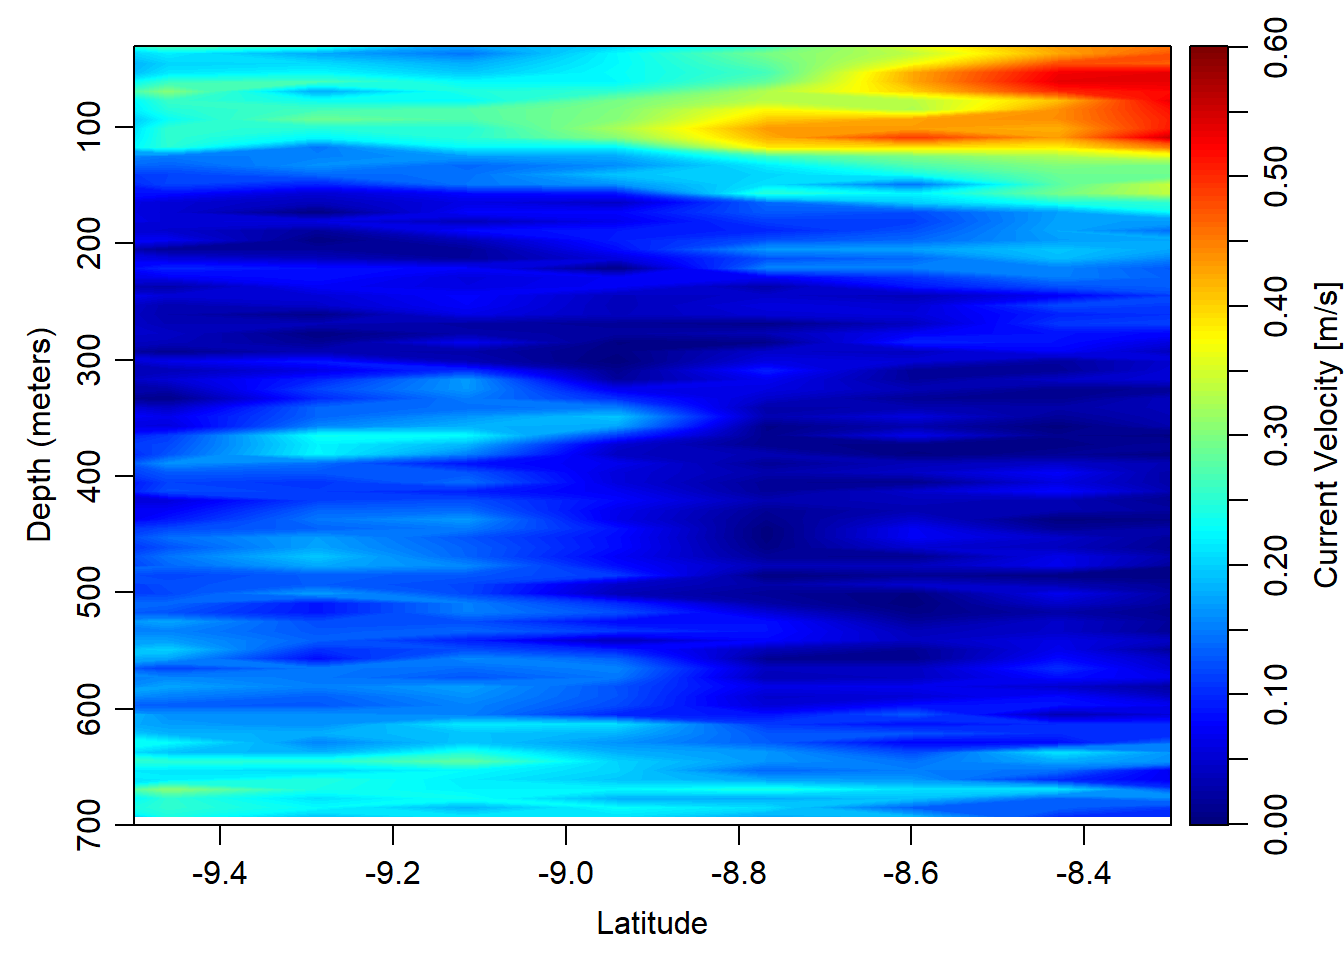
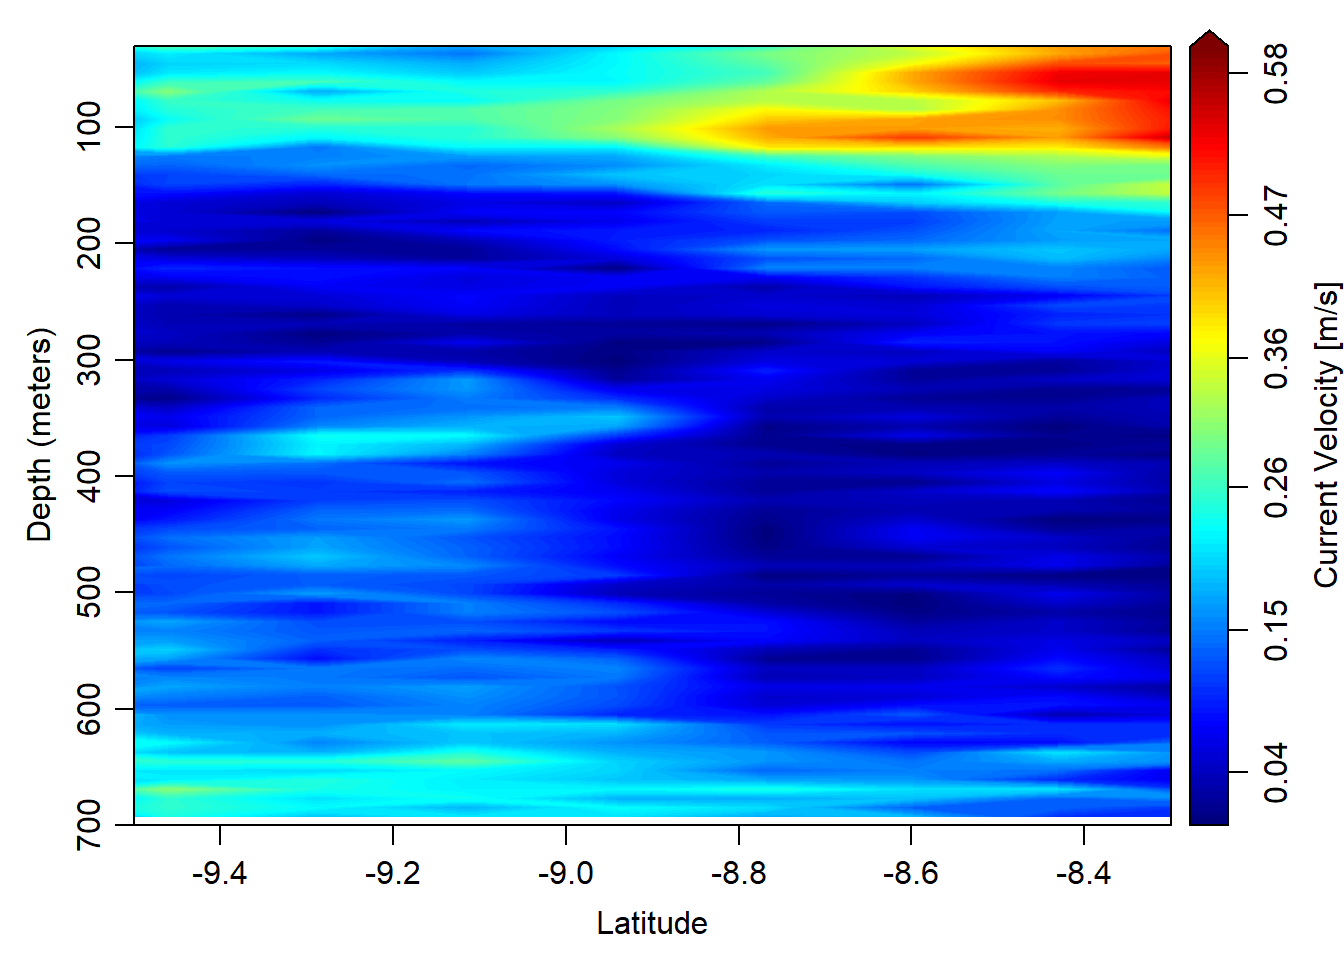
update post

diff --git a/public/10/15/2018/processing-adcp-data-with-r/index.html b/public/10/15/2018/processing-adcp-data-with-r/index.html
@@ -65,7 +65,7 @@
 
   <article class="article">
     
-    <span class="article-duration">6 min read</span>
+    <span class="article-duration">7 min read</span>
     
 
     <h1 class="article-title">Processing ADCP Data with R</h1>
@@ -253,6 +253,15 @@ ship.vel = kilwa.adcp[[&quot;avgSpeed&quot;]]
 ## obtain absolute velocity
 vel.abs = abs(vel-ship.vel)</code></pre>
 <p>After correction, the absolute currrent velocity ranged from 1.493310^{-4} ms<sup>-1</sup> to 4.647 ms<sup>-1</sup> with the median of 0.1234 ms<sup>-1</sup>. We see current speed decrease with depth where the surface water has a relatively higher current speed than the deep water (figure <a href="#fig:fig9">9</a>). It also clear the surface current velocity increase from Lindi to around latitude 9 <sup>o</sup>S has relatively lower surface current and increases from 8 <sup>o</sup>S toward Mafia (figure <a href="#fig:fig9">9</a>), which might be caused by East African Coastal Current.</p>
+<pre class="r"><code>## plot the velocity profiles as section
+
+imagep(lat,distance, vel.abs, filledContour = TRUE, 
+       ylim = c(30, 700), zlim = c(0,.6), zclip = TRUE, flipy = TRUE,
+       col = oceColors9A(120), xlim = c(-9.5, -8.3), 
+       xlab = &quot;Latitude&quot;, ylab = &quot;Depth (meters)&quot;, 
+       zlab = &quot;Current Velocity [m/s]&quot;, zlabPosition = &quot;side&quot;,
+       at = seq(0.04, 0.58, length.out = 6)%&gt;%round(digits = 2), 
+       drawPalette = TRUE, drawTriangles = TRUE)</code></pre>
 <div class="figure"><span id="fig:fig9"></span>
 <img src="/post/2018-10-15-processing-adcp-data-with-r_files/figure-html/fig9-1.png" alt="ADCP profile current Velocity between Lindi and Mtwara after correction of the ship speed" width="672" />
 <p class="caption">

diff --git a/content/post/2018-10-15-processing-adcp-data-with-r.html b/content/post/2018-10-15-processing-adcp-data-with-r.html
@@ -193,6 +193,15 @@ ship.vel = kilwa.adcp[[&quot;avgSpeed&quot;]]
 ## obtain absolute velocity
 vel.abs = abs(vel-ship.vel)</code></pre>
 <p>After correction, the absolute currrent velocity ranged from 1.493310^{-4} ms<sup>-1</sup> to 4.647 ms<sup>-1</sup> with the median of 0.1234 ms<sup>-1</sup>. We see current speed decrease with depth where the surface water has a relatively higher current speed than the deep water (figure <a href="#fig:fig9">9</a>). It also clear the surface current velocity increase from Lindi to around latitude 9 <sup>o</sup>S has relatively lower surface current and increases from 8 <sup>o</sup>S toward Mafia (figure <a href="#fig:fig9">9</a>), which might be caused by East African Coastal Current.</p>
+<pre class="r"><code>## plot the velocity profiles as section
+
+imagep(lat,distance, vel.abs, filledContour = TRUE, 
+       ylim = c(30, 700), zlim = c(0,.6), zclip = TRUE, flipy = TRUE,
+       col = oceColors9A(120), xlim = c(-9.5, -8.3), 
+       xlab = &quot;Latitude&quot;, ylab = &quot;Depth (meters)&quot;, 
+       zlab = &quot;Current Velocity [m/s]&quot;, zlabPosition = &quot;side&quot;,
+       at = seq(0.04, 0.58, length.out = 6)%&gt;%round(digits = 2), 
+       drawPalette = TRUE, drawTriangles = TRUE)</code></pre>
 <div class="figure"><span id="fig:fig9"></span>
 <img src="/post/2018-10-15-processing-adcp-data-with-r_files/figure-html/fig9-1.png" alt="ADCP profile current Velocity between Lindi and Mtwara after correction of the ship speed" width="672" />
 <p class="caption">
